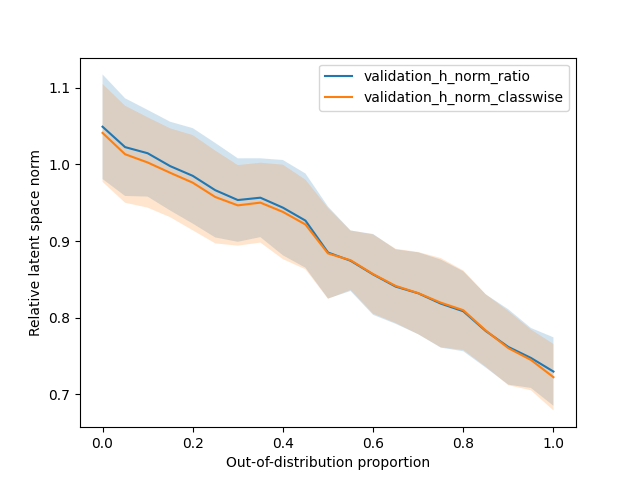
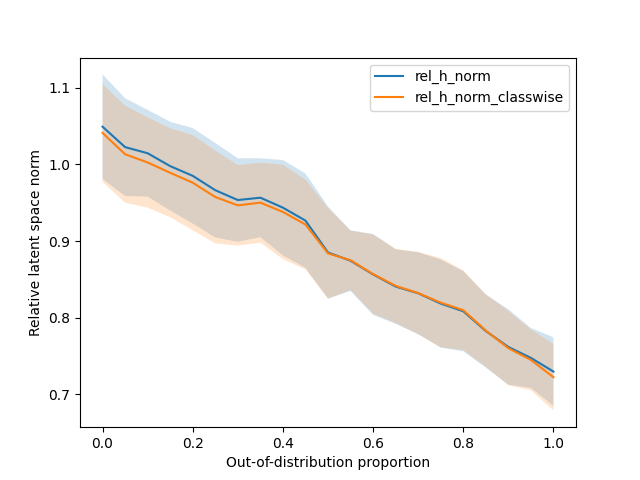
Regenerate plot with new legends, axis labels

Changed region(s): [[0.5625, 0.125, 0.875, 0.2188], [0.5, 0.1562, 0.5312, 0.2188]]

diff --git a/xai/experiments/mnist_binary_classification/collate_experiment_results.py b/xai/experiments/mnist_binary_classification/collate_experiment_results.py
@@ -16,34 +16,35 @@ mean_df, std_df = collate_experiment_results(MNIST_RESULTS_DIR)
 ############################################
 # Plot columns of interest with error bars #
 ############################################
-fig = plot_ood_results_with_error_bars(mean_df, std_df, ['accuracy', 'auc', 'probability_mean'],
-                                       "Classification metrics")
-plt.savefig(MNIST_FIGURES_DIR / 'classification_metrics.png', format='png')
+if __name__ == '__main__':
+    fig = plot_ood_results_with_error_bars(mean_df, std_df, ['accuracy', 'auc', 'probability_mean'],
+                                           "Classification metrics")
+    plt.savefig(MNIST_FIGURES_DIR / 'classification_metrics.png', format='png')
 
-fig = plot_ood_results_with_error_bars(mean_df, std_df, ['probability_std'],
-                                       "Probability standard deviation", legend=False)
-plt.savefig(MNIST_FIGURES_DIR / 'probability_std_dev.png', format='png')
+    fig = plot_ood_results_with_error_bars(mean_df, std_df, ['probability_std'],
+                                           "Probability standard deviation")
+    plt.savefig(MNIST_FIGURES_DIR / 'probability_std_dev.png', format='png')
 
-fig = plot_ood_results_with_error_bars(mean_df, std_df, ['r_vectorwise_norm'],
-                                       "Residual norm", legend=False)
-# fig = plot_ood_results_with_error_bars(mean_df, std_df, ['r_norm'], "Residual norm")
-plt.savefig(MNIST_FIGURES_DIR / 'residual_norm.png', format='png')
+    fig = plot_ood_results_with_error_bars(mean_df[['r_vectorwise_norm']], std_df[['r_vectorwise_norm']],
+                                           ['r_vectorwise_norm'], "Residual norm", renamed_cols=['r_norm'])
+    # fig = plot_ood_results_with_error_bars(mean_df, std_df, ['r_norm'], "Residual norm")
+    plt.savefig(MNIST_FIGURES_DIR / 'residual_norm.png', format='png')
 
-fig = plot_ood_results_with_error_bars(mean_df, std_df, ['h_true_norm', 'h_approx_norm'],
-                                       "Latent space norm")
-plt.savefig(MNIST_FIGURES_DIR / 'h_norm.png', format='png')
+    fig = plot_ood_results_with_error_bars(mean_df, std_df, ['h_true_norm', 'h_approx_norm'],
+                                           "Latent space norm")
+    plt.savefig(MNIST_FIGURES_DIR / 'h_norm.png', format='png')
 
-fig = plot_ood_results_with_error_bars(mean_df, std_df, ['validation_h_norm_ratio', 'validation_h_norm_classwise'],
-                                       "Relative latent space norm")
-plt.savefig(MNIST_FIGURES_DIR / 'relative_h_norm.png', format='png')
+    fig = plot_ood_results_with_error_bars(mean_df, std_df, ['validation_h_norm_ratio', 'validation_h_norm_classwise'],
+                                           "Relative latent space norm", renamed_cols=['rel_h_norm', 'rel_h_norm_classwise'])
+    plt.savefig(MNIST_FIGURES_DIR / 'relative_h_norm.png', format='png')
 
-fig = plot_ood_results_with_error_bars(mean_df, std_df, ['validation_h_norm_directionwise'],
-                                       "Relative latent space norm in out-of-plane axis", legend=False)
-plt.savefig(MNIST_FIGURES_DIR / 'relative_h_norm_directionwise.png', format='png')
+    fig = plot_ood_results_with_error_bars(mean_df, std_df, ['validation_h_norm_directionwise'],
+                                           "Relative latent space norm, out-of-plane", renamed_cols=['rel_h_norm_directionwise'])
+    plt.savefig(MNIST_FIGURES_DIR / 'relative_h_norm_directionwise.png', format='png')
 
 
-# Unused
-fig = plot_ood_results_with_error_bars(mean_df, std_df, ['r_norm_directionwise'], "Residual norm in out-of-plane axis")
-fig = plot_ood_results_with_error_bars(mean_df, std_df, ['r_vector_norm_directionwise'], "Residual norm in out-of-plane axis")
-fig = plot_ood_results_with_error_bars(mean_df, std_df, ['validation_r_norm_directionwise'], "Residual norm in out-of-plane axis")
-fig = plot_ood_results_with_error_bars(mean_df, std_df, ['validation_r_vector_norm_directionwise'], "Residual norm in out-of-plane axis")
+    # Unused
+    fig = plot_ood_results_with_error_bars(mean_df, std_df, ['r_norm_directionwise'], "Residual norm in out-of-plane axis")
+    fig = plot_ood_results_with_error_bars(mean_df, std_df, ['r_vector_norm_directionwise'], "Residual norm in out-of-plane axis")
+    fig = plot_ood_results_with_error_bars(mean_df, std_df, ['validation_r_norm_directionwise'], "Residual norm in out-of-plane axis")
+    fig = plot_ood_results_with_error_bars(mean_df, std_df, ['validation_r_vector_norm_directionwise'], "Residual norm in out-of-plane axis")

diff --git a/xai/experiments/cancer_classification/collate_experiment_results.py b/xai/experiments/cancer_classification/collate_experiment_results.py
@@ -12,36 +12,38 @@ CANCER_FIGURES_DIR = FIGURES_DIR / 'cancer_experiment'
 
 mean_df, std_df = collate_experiment_results(CANCER_RESULTS_DIR)
 
+
 ############################################
 # Plot columns of interest with error bars #
 ############################################
-fig = plot_ood_results_with_error_bars(mean_df, std_df, ['accuracy', 'auc', 'probability_mean'],
-                                       "Classification metrics")
-plt.savefig(CANCER_FIGURES_DIR / 'classification_metrics.png', format='png')
+if __name__ == '__main__':
+    fig = plot_ood_results_with_error_bars(mean_df, std_df, ['accuracy', 'auc', 'probability_mean'],
+                                           "Classification metrics")
+    plt.savefig(CANCER_FIGURES_DIR / 'classification_metrics.png', format='png')
 
-fig = plot_ood_results_with_error_bars(mean_df, std_df, ['probability_std'],
-                                       "Probability standard deviation", legend=False)
-plt.savefig(CANCER_FIGURES_DIR / 'probability_std_dev.png', format='png')
+    fig = plot_ood_results_with_error_bars(mean_df, std_df, ['probability_std'],
+                                           "Probability standard deviation")
+    plt.savefig(CANCER_FIGURES_DIR / 'probability_std_dev.png', format='png')
 
-fig = plot_ood_results_with_error_bars(mean_df, std_df, ['r_vectorwise_norm'],
-                                       "Residual norm", legend=False)
-# fig = plot_ood_results_with_error_bars(mean_df, std_df, ['r_norm'], "Residual norm")
-plt.savefig(CANCER_FIGURES_DIR / 'residual_norm.png', format='png')
+    fig = plot_ood_results_with_error_bars(mean_df[['r_vectorwise_norm']], std_df[['r_vectorwise_norm']],
+                                           ['r_vectorwise_norm'], "Residual norm", renamed_cols=['r_norm'])
+    # fig = plot_ood_results_with_error_bars(mean_df, std_df, ['r_norm'], "Residual norm")
+    plt.savefig(CANCER_FIGURES_DIR / 'residual_norm.png', format='png')
 
-fig = plot_ood_results_with_error_bars(mean_df, std_df, ['h_true_norm', 'h_approx_norm'],
-                                       "Latent space norm")
-plt.savefig(CANCER_FIGURES_DIR / 'h_norm.png', format='png')
+    fig = plot_ood_results_with_error_bars(mean_df, std_df, ['h_true_norm', 'h_approx_norm'],
+                                           "Latent space norm")
+    plt.savefig(CANCER_FIGURES_DIR / 'h_norm.png', format='png')
 
-fig = plot_ood_results_with_error_bars(mean_df, std_df, ['validation_h_norm_ratio', 'validation_h_norm_classwise'],
-                                       "Relative latent space norm")
-plt.savefig(CANCER_FIGURES_DIR / 'relative_h_norm.png', format='png')
+    fig = plot_ood_results_with_error_bars(mean_df, std_df, ['validation_h_norm_ratio', 'validation_h_norm_classwise'],
+                                           "Relative latent space norm", renamed_cols=['rel_h_norm', 'rel_h_norm_classwise'])
+    plt.savefig(CANCER_FIGURES_DIR / 'relative_h_norm.png', format='png')
 
-fig = plot_ood_results_with_error_bars(mean_df, std_df, ['validation_h_norm_directionwise'],
-                                       "Relative latent space norm in out-of-plane axis", legend=False)
-plt.savefig(CANCER_FIGURES_DIR / 'relative_h_norm_directionwise.png', format='png')
+    fig = plot_ood_results_with_error_bars(mean_df, std_df, ['validation_h_norm_directionwise'],
+                                           "Relative latent space norm, out-of-plane", renamed_cols=['rel_h_norm_directionwise'])
+    plt.savefig(CANCER_FIGURES_DIR / 'relative_h_norm_directionwise.png', format='png')
 
 
-# Unused
-fig = plot_ood_results_with_error_bars(mean_df, std_df, ['r_norm_directionwise'], "Residual norm in out-of-plane axis")
-fig = plot_ood_results_with_error_bars(mean_df, std_df, ['r_vector_norm_directionwise'], "Residual norm in out-of-plane axis")
-fig = plot_ood_results_with_error_bars(mean_df, std_df, ['validation_h_norm_directionwise'], "Relative latent space norm in out-of-plane axis")
+    # Unused
+    fig = plot_ood_results_with_error_bars(mean_df, std_df, ['r_norm_directionwise'], "Residual norm in out-of-plane axis")
+    fig = plot_ood_results_with_error_bars(mean_df, std_df, ['r_vector_norm_directionwise'], "Residual norm in out-of-plane axis")
+    fig = plot_ood_results_with_error_bars(mean_df, std_df, ['validation_h_norm_directionwise'], "Relative latent space norm in out-of-plane axis")

diff --git a/xai/experiments/mnist_binary_classification/plot_utils.py b/xai/experiments/mnist_binary_classification/plot_utils.py
@@ -32,8 +32,15 @@ def plot_ood_results_with_error_bars(mean_df: pd.DataFrame,
                                      std_df: pd.DataFrame,
                                      cols: list,
                                      ylabel: str,
+                                     renamed_cols: list = None,
                                      legend: bool = True):
     """Plot the given columns against out-of-distribution, with error bars."""
+    if renamed_cols:
+        col_mapping = {k: v for k, v in zip(cols, renamed_cols)}
+        mean_df = mean_df.rename(columns=col_mapping)
+        std_df = std_df.rename(columns=col_mapping)
+        cols = renamed_cols
+
     fig = plt.figure()
     for col in cols:
         plt.plot(mean_df.index, mean_df[col], label=col)
